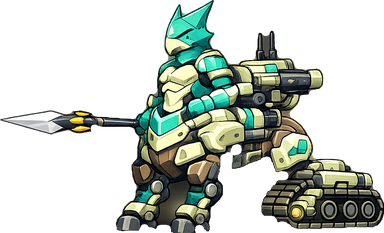
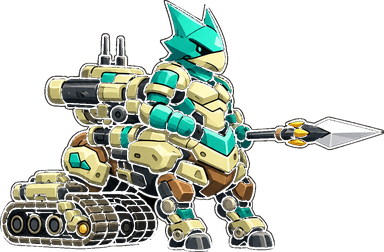
feat: 死神・人馬・鳥のキャラ画像を差し替える (v96)
頂いた元画像は透過情報を持たないPNGだったため(死神・人馬は黒背景、
鳥は市松模様が描き込まれた状態)、縁からつながっている背景色だけを
消す方式で加工し、既存アセットに合わせた幅へ縮小した。

死神は最初の試行で黒い棺の車体まで消えた。紫の霧が黒へ薄れる部分から
消去が内部へ漏れたため、許容値を40から8へ絞って解決している。この方式は
近似であり、透過PNGがあれば劣化なしで差し替えられる。

- 死神と人馬は新しい絵が右向きのため facesLeft: true を削除
- 鳥は元から右向きで新しい絵も右向きのため変更なし
- 左向き素材として登録されているキャラは5体になった

左向き素材の一覧を固定するテストを追加した。絵と設定が合っているかは
自動では判定できないため、設定が意図せず変わったことに気づくためのもの。

あわせて v95 で追加した花火のテストのフレーキーを直した。上空に浮島が
生成されると頂点へ届く前に着弾するため、空が開けた地形を引くまで
作り直す方式へ変更した。

テストは555件すべて成功。

Claude-Session: https://claude.ai/code/session_01H9NovpHS89ZQ4ihYMAnX78

diff --git a/tests/regressiontest.js b/tests/regressiontest.js
@@ -37,8 +37,11 @@ check('デスゲートはDEAD LINEの下から固定射程',
   deathGate.range === 260 && deathGate.speed === 310 && deathGate.bottomRadius === 26 && deathGate.topRadius === 8 && deathGate.curvePower === 3 && deathGate.stride === 14 && deathGate.startDepth === 34,
   JSON.stringify(deathGate));
 const shinigami = kt.character('shinigami');
-check('死神は両陣営とも敵の方を向き、戦闘中だけ大きく表示する',
-  shinigami.facesLeft === true && shinigami.spriteScale === 1.35,
+// facesLeft は「元画像がどちら向きか」であって「敵を向くか」ではない。敵の方を向くことは
+// 後段の向き検査(全キャラ・左右両配置)で確認している。ここは画像を差し替えた時に
+// 設定の追随漏れへ気づくための固定。2026-08-03に右向きの絵へ差し替えたため false。
+check('死神は右向きの元画像で、戦闘中だけ大きく表示する',
+  !shinigami.facesLeft && shinigami.spriteScale === 1.35,
   JSON.stringify(shinigami));
 kt.startBattle('shinigami');
 const cratersBeforeDeathGate = kt.craters();
@@ -346,6 +349,16 @@ for (const key of kt.chars()) {
   }
 }
 check('左向き素材のキャラが検査対象に含まれている', facesLeftChecked > 0, `該当=${facesLeftChecked}体`);
+
+// 「どのキャラの元画像が左向きか」を固定しておく。ここが絵と食い違うとそのキャラだけ
+// 相手に背を向ける。絵と設定が合っているかは自動では判定できない(人の目でしか分からない)
+// ので、せめて設定が意図せず変わったことに気づけるようにする。
+// 画像を差し替えた時は、実機で向きを確認したうえでこの一覧も更新すること。
+const EXPECTED_LEFT_FACING = ['sumoeru', 'doRednote', 'akuma', 'kishi', 'neko'];
+const actualLeftFacing = kt.chars().filter(k => kt.character(k).facesLeft);
+check('左向き素材として登録されているキャラの一覧が変わっていない',
+  actualLeftFacing.join(',') === EXPECTED_LEFT_FACING.join(','),
+  `実際=[${actualLeftFacing.join(',')}] 期待=[${EXPECTED_LEFT_FACING.join(',')}]`);
 check('全キャラが左右どちらに居ても相手の方を向く', facingNg.length === 0,
   `ズレ=${facingNg.slice(0, 8).join(', ')}${facingNg.length > 8 ? ` ほか${facingNg.length - 8}件` : ''}`);
 
@@ -372,23 +385,31 @@ function craterRadii(craterString) {
 
 kt.startBattle('sumoeru');
 kt.disableCpuForTest();
-kt.setTerrain('rolling');
-kt.setCharactersForTest('sumoeru', 'sumoeru');
-kt.fillCharges();
-kt.placeOnGround('p1', Math.round(kt.stageW() * 0.25));
-kt.placeOnGround('e1', Math.round(kt.stageW() * 0.75));
-const fireworkSnap = kt.snapshot();
 
 // 上へ大きく撃つ → 頂点で空中炸裂する(本体の爆発は起きず、拡散弾だけ)
 const upShot = () => kt.fireForTest(300, -520, { unitId: 'p1', useSpecial: true });
+// 地形はランダムで、上空に浮島が生成されると頂点へ届く前に着弾してしまう。
+// 空が開けている地形を引くまで作り直す。空中炸裂しない実装では何度作り直しても
+// 条件を満たせないので、この用意が失敗すること自体で退行を検知できる。
+let fireworkSnap = null;
+for (let attempt = 0; attempt < 20 && !fireworkSnap; attempt++) {
+  kt.setTerrain('rolling');
+  kt.setCharactersForTest('sumoeru', 'sumoeru');
+  kt.fillCharges();
+  kt.placeOnGround('p1', Math.round(kt.stageW() * 0.25));
+  kt.placeOnGround('e1', Math.round(kt.stageW() * 0.75));
+  const probe = kt.snapshot();
+  const radii = craterRadii(runShotWithStep(1 / 60, probe, upShot, 6).craters);
+  if (radii.length > 0 && radii.every(r => r < MAIN_BLAST_MIN_R)) fireworkSnap = probe;
+}
+check('上へ撃った花火は空中で開く(本体の爆発が起きない)', fireworkSnap !== null,
+  '20回地形を作り直しても空中炸裂しなかった');
+if (!fireworkSnap) fireworkSnap = kt.snapshot();
 const fw60 = runShotWithStep(1 / 60, fireworkSnap, upShot, 6);
 const fw120 = runShotWithStep(1 / 120, fireworkSnap, upShot, 6);
 const fw30 = runShotWithStep(1 / 30, fireworkSnap, upShot, 6);
 check('花火が炸裂して地形を削っている', craterRadii(fw60.craters).length > 0,
   `craters=${craterRadii(fw60.craters).length}`);
-check('上へ撃った花火は空中で開く(本体の爆発が起きない)',
-  craterRadii(fw60.craters).every(r => r < MAIN_BLAST_MIN_R),
-  `半径=${craterRadii(fw60.craters).join(',')}`);
 check('花火の炸裂位置が60fpsと120fpsで完全一致する', fw60.craters === fw120.craters,
   `60=${fw60.craters.slice(0, 90)} / 120=${fw120.craters.slice(0, 90)}`);
 check('花火の炸裂位置が60fpsと30fpsで完全一致する', fw60.craters === fw30.craters,

diff --git a/index.html b/index.html
@@ -387,7 +387,7 @@
   // ===== ビルド番号 =====
   // 端末がどの版を掴んでいるかを目で確かめるための番号。sw.js の CACHE_VERSION と必ず揃えること。
   // 不具合報告の時、双方が同じ版で動いているかをここ一箇所で確認できる。
-  const BUILD_ID = 'v95';
+  const BUILD_ID = 'v96';
 
   // ===== 最終更新日(サーバー側のファイル更新日時から自動取得。手動更新不要) =====
   const LAST_UPDATED_TEXT = (() => {
@@ -2047,7 +2047,7 @@
       desc: '槍と肩砲を備えた四脚戦車。走り回りながら高速弾で圧をかける。',
       selectStats: [4, 3, 4], specialDesc: '地形を貫き大爆発する突撃槍',
       maxHp: 108, blastMul: 0.95, windMul: 0.6, fuelMul: 1.25, velScaleMul: 1.15, specialVelocityMul: 1.3, tBias: 0.9,
-      color: '#3fd6b0', special: 'Dスマッシュ', facesLeft: true
+      color: '#3fd6b0', special: 'Dスマッシュ'
     },
     kishi: {
       key: 'kishi', name: '騎士', role: '重装型', roleEn: 'FORTRESS',
@@ -2068,7 +2068,7 @@
       desc: '大鎌の呪いで足場を断つ技巧派。必殺は地面を縦に削り、相手を死線へ誘う。',
       selectStats: [3, 2, 4], specialDesc: '着弾地点の真下から縦穴を削る冥府の鎌',
       maxHp: 92, blastMul: 0.9, windMul: 0.82, fuelMul: 1.1, velScaleMul: 1.02, specialVelocityMul: 1.0, tBias: 0.95,
-      color: '#b87cff', special: 'デスゲート', facesLeft: true, spriteScale: 1.35
+      color: '#b87cff', special: 'デスゲート', spriteScale: 1.35
     }
   };
   // 必殺カットインの顔アップ用。元画像に対する [中心X, 中心Y, 切り出し幅] の比率。

diff --git a/sw.js b/sw.js
@@ -1,4 +1,4 @@
-const CACHE_VERSION = 'katamon-pwa-v95';
+const CACHE_VERSION = 'katamon-pwa-v96';
 const APP_SHELL = [
   './',
   './index.html',

diff --git a/CURRENT_WORK_STATE.md b/CURRENT_WORK_STATE.md
@@ -130,6 +130,32 @@
 - 照準ガイドの炸裂予定地点の印が読み取りやすいか。
 - オンライン2端末で炸裂位置・地形・HPが一致すること。
 
+## v96 で入れた変更（キャラ画像の差し替え）
+
+- **死神・人馬・鳥の3体の画像を差し替えた。**
+- 頂いた元画像は**透過情報を持たない**PNGだった（死神・人馬は黒背景、鳥は市松模様が描き込まれた状態）。そのまま入れるとキャラの周りが四角く塗られるため、こちらで加工した。
+  - 手法: 画像の**縁からつながっている背景色だけ**を消す（キャラ内部の同色は残す）。そのうえで既存アセットに合わせた幅（死神512px・他384px）へ縮小。
+  - 死神は最初の試行で黒い棺の車体まで消えた。紫の霧が黒へ薄れる部分から消去が内部へ漏れたため。許容値を40→8へ絞って解決した。**この方式は近似**であり、透過PNGを頂ければ劣化なしで差し替えられる。
+- **死神と人馬は `facesLeft: true` を削除した。** 新しい絵はどちらも右向きで、現行の左向きの絵とは反転している。鳥は元から右向きで新しい絵も右向きのため変更なし。
+  - 左向き素材として登録されているキャラは **sumoeru / doRednote / akuma / kishi / neko の5体**になった。
+- 加工に Pillow を使用（この作業環境へ導入。リポジトリには依存を追加していない）。
+
+### 検証結果
+
+- 自動テスト合計 **555件すべて成功**。
+- 「左向き素材として登録されているキャラの一覧」を固定するテストを追加した。**絵と設定が合っているかは自動では判定できない**（人の目でしか分からない）ため、設定が意図せず変わったことに気づくためのもの。画像を差し替えた際は実機確認のうえこの一覧も更新すること。
+- 既存の「死神は…」テストが旧画像の向きを固定していたため、右向きへ追随させた。
+
+### あわせて直したもの
+
+- v95で追加した花火のテストがフレーキーだった。上空に浮島が生成されると頂点へ届く前に着弾するため。空が開けた地形を引くまで作り直す方式へ変更し、5回連続で両席とも全通過することを確認した。
+
+### 未検証（実機QAで確認する）
+
+- 3体の見た目と、背景を抜いた縁の粗さ。
+- **死神の向き。** 新しい絵は正面寄りの構図で、マントの流れる向きから右向きと判断した。実機で相手に背を向けていたら `facesLeft: true` を戻す1行修正で直る。
+- **死神が浮いて見えないか。** 画像の下端を地面に合わせて描くため、下部の紫の霧のぶんだけ車体が浮く可能性がある。
+
 ## セッションで実装済みの内容
 
 ### 視点距離の記憶
